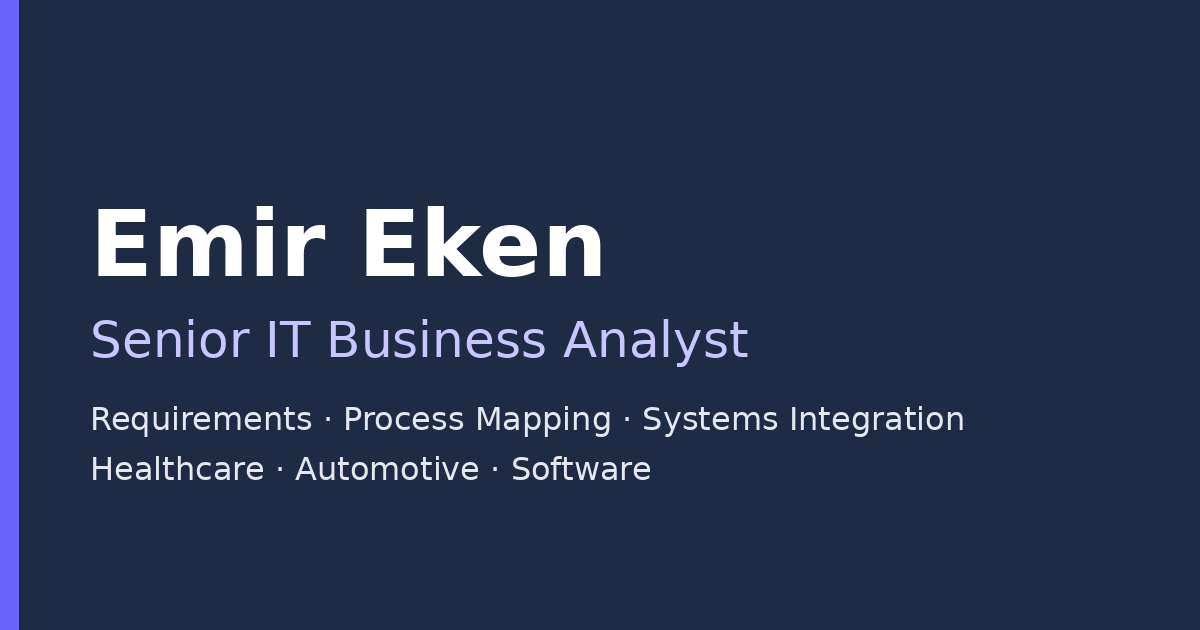
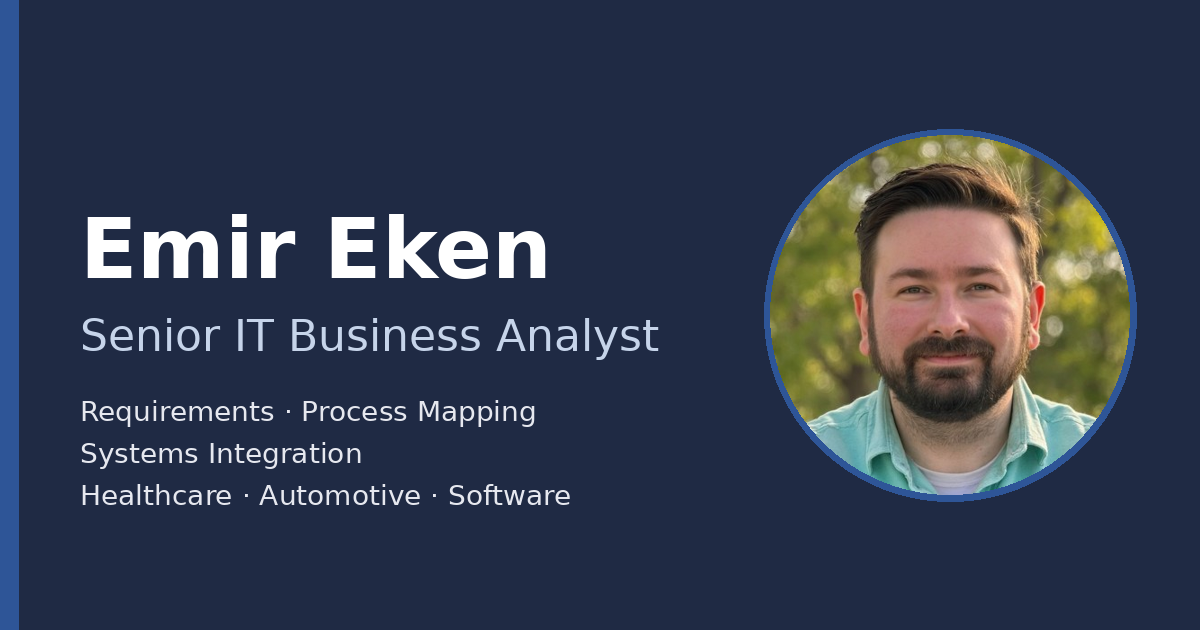
Profile Updates

Changed region(s): [[0.0617, 0.181, 0.9558, 0.8143], [0.0617, 0.3317, 0.5242, 0.4524], [0.0, 0.0, 0.0308, 1.0]]

diff --git a/src/portfolio.js b/src/portfolio.js
@@ -25,14 +25,20 @@ const illustration = {
 
 const greeting = {
   username: "Emir Eken",
-  title: "Hello, I'm Emir",
+  title: "Emir Eken",
+  // Headline under your name: keep it to one short sentence
   subTitle: emoji(
-    "Senior IT Business Analyst with 10+ years across healthcare, automotive, and building-performance software. I lead stakeholder discovery, requirements, and current/future-state process mapping for enterprise and client-facing systems, from Salesforce and HubSpot CRM workflows to a connected-vehicle cloud application and a software rollout across a 37-location healthcare group. US Green Card holder, based in Ithaca, NY."
+    "Senior IT Business Analyst with 10+ years across healthcare, automotive, and building-performance software."
   ),
+  // Supporting paragraph shown under the headline (optional)
+  summary:
+    "I lead stakeholder discovery, requirements, and current/future-state process mapping for enterprise and client-facing systems, from Salesforce and HubSpot CRM workflows to a connected-vehicle cloud application and a software rollout across a 37-location healthcare group.",
+  // Small tag shown under the summary (optional)
+  location: "Ithaca, NY · US Green Card holder",
   resumeLink: "",
   // Profile photo: put your photo in the public/ folder and set its file name here,
   // e.g. "profile.jpg". Leave empty to show the illustration instead.
-  profileImage: "",
+  profileImage: "profile.png",
   displayGreeting: true // Set false to hide this section, defaults to true
 };
 
@@ -57,16 +63,16 @@ const skillsSection = {
   subTitle: "SENIOR BUSINESS ANALYST: REQUIREMENTS, PROCESS MAPPING, AND SYSTEMS INTEGRATION",
   skills: [
     emoji(
-      "⚡ Lead stakeholder discovery and structured interviews to surface system usage, dependencies, and functional requirements"
+      "Lead stakeholder discovery and structured interviews to surface system usage, dependencies, and functional requirements"
     ),
     emoji(
-      "⚡ Translate business needs into user stories, acceptance criteria, and current/future-state process flows"
+      "Translate business needs into user stories, acceptance criteria, and current/future-state process flows"
     ),
     emoji(
-      "⚡ Lead and support Agile/Scrum ceremonies, including backlog creation, sprint planning, and UAT"
+      "Lead and support Agile/Scrum ceremonies, including backlog creation, sprint planning, and UAT"
     ),
     emoji(
-      "⚡ Analyze API integrations and system dependencies, and validate functionality through testing"
+      "Analyze API integrations and system dependencies, and validate functionality through testing"
     )
   ],
   /* Make Sure to include correct Font Awesome Classname to view your icon
@@ -277,7 +283,7 @@ const bigProjects = {
 // Include certificates, talks etc
 
 const achievementSection = {
-  title: emoji("Achievements And Certifications 🏆 "),
+  title: "Achievements and Certifications",
   subtitle:
     "Professional development, certifications, and patents",
 
@@ -395,7 +401,7 @@ const podcastSection = {
 };
 
 const contactInfo = {
-  title: emoji("Contact Me ☎"),
+  title: "Contact",
   subtitle:
     "Hiring for a business analyst role or want to talk about a project? My inbox is open.",
   email_address: "emirgokberk.eken@gmail.com"

diff --git a/src/containers/greeting/Greeting.scss b/src/containers/greeting/Greeting.scss
@@ -40,9 +40,57 @@
   color: $textColor !important;
 }
 
-.greeting-text-p {
-  font-size: 30px;
-  line-height: 40px;
+.greeting-text.dark-mode {
+  color: $textColorDark !important;
+}
+
+// Subtitle: headline -> supporting summary -> location tag
+.greeting-headline {
+  margin: 20px 0 0;
+  max-width: 36ch;
+  font-size: 28px;
+  font-weight: 600;
+  line-height: 1.35;
+  color: $textColor;
+  background: none;
+}
+.greeting-headline.dark-mode {
+  color: $textColorDark;
+}
+
+.greeting-summary {
+  margin: 16px 0 0;
+  max-width: 58ch;
+  font-size: 18px;
+  line-height: 1.7;
+  color: $subTitle;
+  background: none;
+}
+.greeting-summary.dark-mode {
+  color: #aab3c0;
+}
+
+.greeting-location {
+  display: inline-flex;
+  align-items: center;
+  gap: 8px;
+  margin: 20px 0 24px;
+  padding: 6px 14px;
+  border: 1px solid $lightBorder1;
+  border-radius: 999px;
+  font-size: 15px;
+  color: $subTitle;
+  background: none;
+}
+.greeting-location i {
+  color: $buttonHover;
+}
+.greeting-location.dark-mode {
+  color: #aab3c0;
+  border-color: rgba(255, 255, 255, 0.15);
+}
+.greeting-location.dark-mode i {
+  color: $educationCardBorder;
 }
 
 .greeting-image-div > img {
@@ -87,8 +135,11 @@
   .greeting-text {
     font-size: 50px;
   }
-  .greeting-text-p {
-    font-size: 20px;
+  .greeting-headline {
+    font-size: 24px;
+  }
+  .greeting-summary {
+    font-size: 17px;
   }
 }
 @media (max-width: 768px) {
@@ -99,10 +150,22 @@
     font-size: 30px;
     text-align: center;
   }
-  .greeting-text-p {
-    font-size: 16px;
-    line-height: normal;
+  .greeting-headline,
+  .greeting-summary {
+    max-width: none;
     text-align: center;
+  }
+  .greeting-headline {
+    font-size: 20px;
+  }
+  .greeting-summary {
+    font-size: 16px;
+    line-height: 1.6;
+  }
+  .greeting-location {
+    display: flex;
+    width: fit-content;
+    margin: 16px auto 20px;
   }
   .greeting-main {
     display: block;

diff --git a/src/containers/greeting/Greeting.jsx b/src/containers/greeting/Greeting.jsx
@@ -1,6 +1,5 @@
 import React, {useContext} from "react";
 import {Fade} from "react-reveal";
-import emoji from "react-easy-emoji";
 import "./Greeting.scss";
 import landingPerson from "../../assets/lottie/landingPerson";
 import DisplayLottie from "../../components/displayLottie/DisplayLottie";
@@ -27,17 +26,33 @@ export default function Greeting() {
               >
                 {" "}
                 {greeting.title}{" "}
-                <span className="wave-emoji">{emoji("👋")}</span>
               </h1>
               <p
                 className={
-                  isDark
-                    ? "dark-mode greeting-text-p"
-                    : "greeting-text-p subTitle"
+                  isDark ? "dark-mode greeting-headline" : "greeting-headline"
                 }
               >
                 {greeting.subTitle}
               </p>
+              {greeting.summary && (
+                <p
+                  className={
+                    isDark ? "dark-mode greeting-summary" : "greeting-summary"
+                  }
+                >
+                  {greeting.summary}
+                </p>
+              )}
+              {greeting.location && (
+                <p
+                  className={
+                    isDark ? "dark-mode greeting-location" : "greeting-location"
+                  }
+                >
+                  <i className="fas fa-map-marker-alt" aria-hidden="true"></i>
+                  {greeting.location}
+                </p>
+              )}
               <SocialMedia />
               <div className="button-greeting-div">
                 <Button text="Contact me" href="#contact" />

diff --git a/index.html b/index.html
@@ -3,16 +3,16 @@
 
 <head>
   <meta charset="utf-8" />
-  <link rel="icon" type="image/png" sizes="32x32" href="/favicon-32x32.png?v8=qAJ44G5Bm7">
-  <link rel="icon" type="image/png" sizes="16x16" href="/favicon-16x16.png?v8=qAJ44G5Bm7">
-  <link rel="mask-icon" href="/safari-pinned-tab.svg?v8=qAJ44G5Bm7" color="#885bd5">
-  <link rel="shortcut icon" href="/favicon.ico?v8=qAJ44G5Bm7">
-  <meta name="msapplication-TileColor" content="#603cba">
+  <link rel="icon" type="image/png" sizes="32x32" href="/favicon-32x32.png?v9=ee2026">
+  <link rel="icon" type="image/png" sizes="16x16" href="/favicon-16x16.png?v9=ee2026">
+  <link rel="mask-icon" href="/safari-pinned-tab.svg?v9=ee2026" color="#1f3864">
+  <link rel="shortcut icon" href="/favicon.ico?v9=ee2026">
+  <meta name="msapplication-TileColor" content="#1f3864">
 
   <meta name="viewport" content="width=device-width, initial-scale=1" />
-  <meta name="theme-color" content="#6c63ff" />
+  <meta name="theme-color" content="#1f3864" />
   <meta name="description" content="Emir Eken, Senior IT Business Analyst: requirements, process mapping, and systems integration across healthcare, automotive, and software." />
-  <link rel="apple-touch-icon" sizes="180x180" href="/apple-touch-icon.png?v8=qAJ44G5Bm7">
+  <link rel="apple-touch-icon" sizes="180x180" href="/apple-touch-icon.png?v9=ee2026">
   <meta property="og:title" content="Emir Eken | Senior IT Business Analyst" />
   <meta property="og:description" content="10+ years of stakeholder discovery, requirements, and process mapping across healthcare, automotive, and building-performance software." />
   <meta property="og:type" content="website" />

diff --git a/src/_globalColor.scss b/src/_globalColor.scss
@@ -3,8 +3,8 @@ Certain colors are used for different and multiply types of elements.
 For greater control over colors visit each components .scss file. */
 
 // button colors
-$buttonColor: #55198b;
-$buttonHover: #8c43ce;
+$buttonColor: #1f3864;
+$buttonHover: #2e5597;
 $topButtonHover: #000;
 
 // text colors light theme
@@ -28,7 +28,7 @@ $githubRepoCardColor: rgb(88, 96, 105);
 $githubRepoCardRepoCardStatsColor: rgb(106, 115, 125);
 $githubRepoCardRepoNameColor: rgb(36, 41, 46);
 $githubProfileCardLocationTS: #ffebcd;
-$githubProfileCardBorder: #6c63ff;
+$githubProfileCardBorder: #2e5597;
 
 // light background colors
 $lightBackground1: #fff;
@@ -60,7 +60,7 @@ $experienceCardBannerLG: linear-gradient(
 // borders
 $progressBarBackground: rgb(243, 239, 239);
 $lightBorder1: rgba(211, 211, 211, 0.397);
-$educationCardBorder: #a9a7f9;
+$educationCardBorder: #9db2d6;
 
 // hovers
 $achievementCertificateCardHoverDark: rgba(255, 255, 255, 0.2);
@@ -69,12 +69,12 @@ $headerHoverBG: #f4f4f4;
 $contactDetailHoverTS: #b5b5b5;
 
 // misc backgrounds
-$progressBarSpanBG: #aaa5ff;
+$progressBarSpanBG: #9db2d6;
 $iconBackground: #333;
 $appHeaderBG: #282c34;
 
 // misc colors
-$skillsColor: #645beb;
+$skillsColor: #1f3864;
 $appLink: #09d3ac;
 
 // social media icons

diff --git a/src/containers/Main.jsx b/src/containers/Main.jsx
@@ -8,7 +8,6 @@ import Projects from "./projects/Projects";
 import StartupProject from "./StartupProjects/StartupProject";
 import Achievement from "./achievement/Achievement";
 import Blogs from "./blogs/Blogs";
-import Footer from "../components/footer/Footer";
 import Talks from "./talks/Talks";
 import Podcast from "./podcast/Podcast";
 import Education from "./education/Education";
@@ -59,7 +58,6 @@ export default class Main extends Component {
           <Twitter />
           <Podcast />
           <Profile />
-          <Footer />
           <Top />
         </StyleProvider>
       </div>

diff --git a/src/components/header/Header.scss b/src/components/header/Header.scss
@@ -53,6 +53,12 @@
   margin-top: 10px;
   line-height: normal;
 }
+.header .logo img {
+  height: 44px;
+  width: 44px;
+  display: block;
+}
+
 .header .logo-name {
   font-family: "Agustina Regular";
   font-weight: bold;
